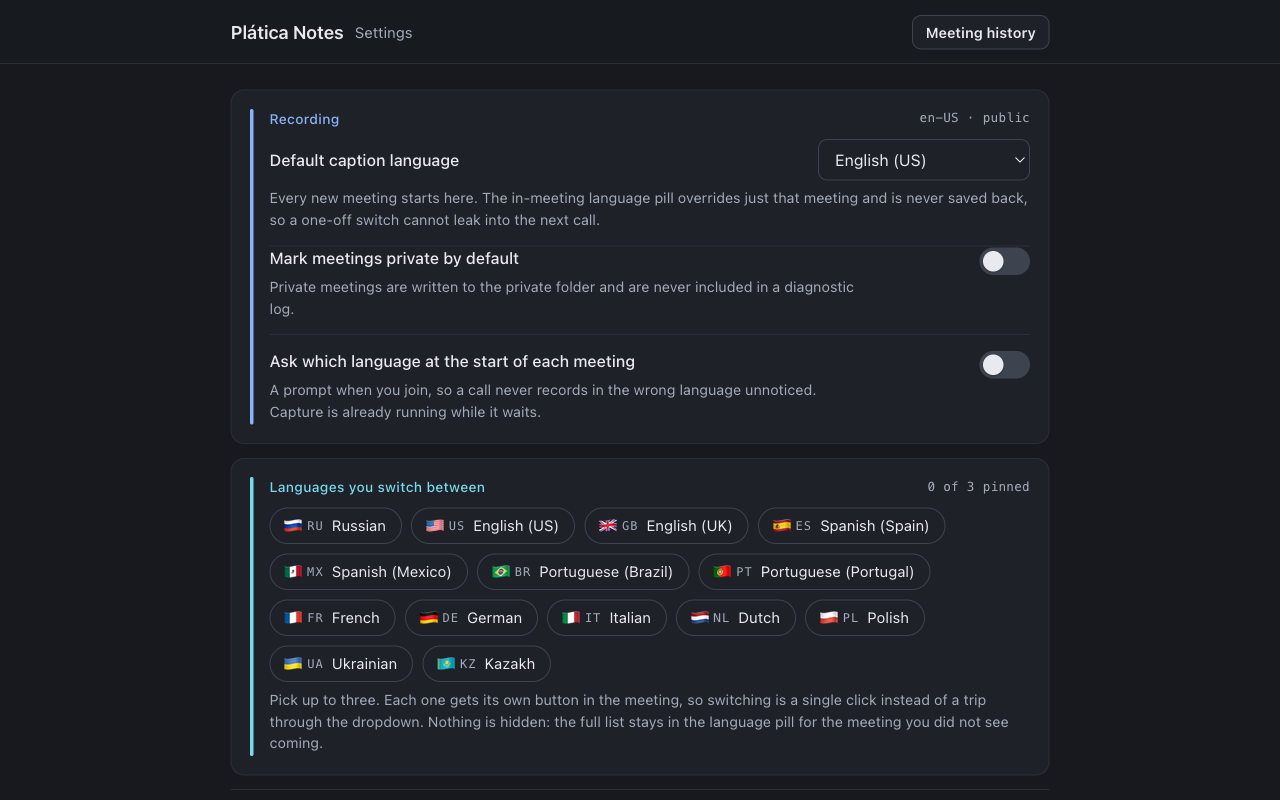
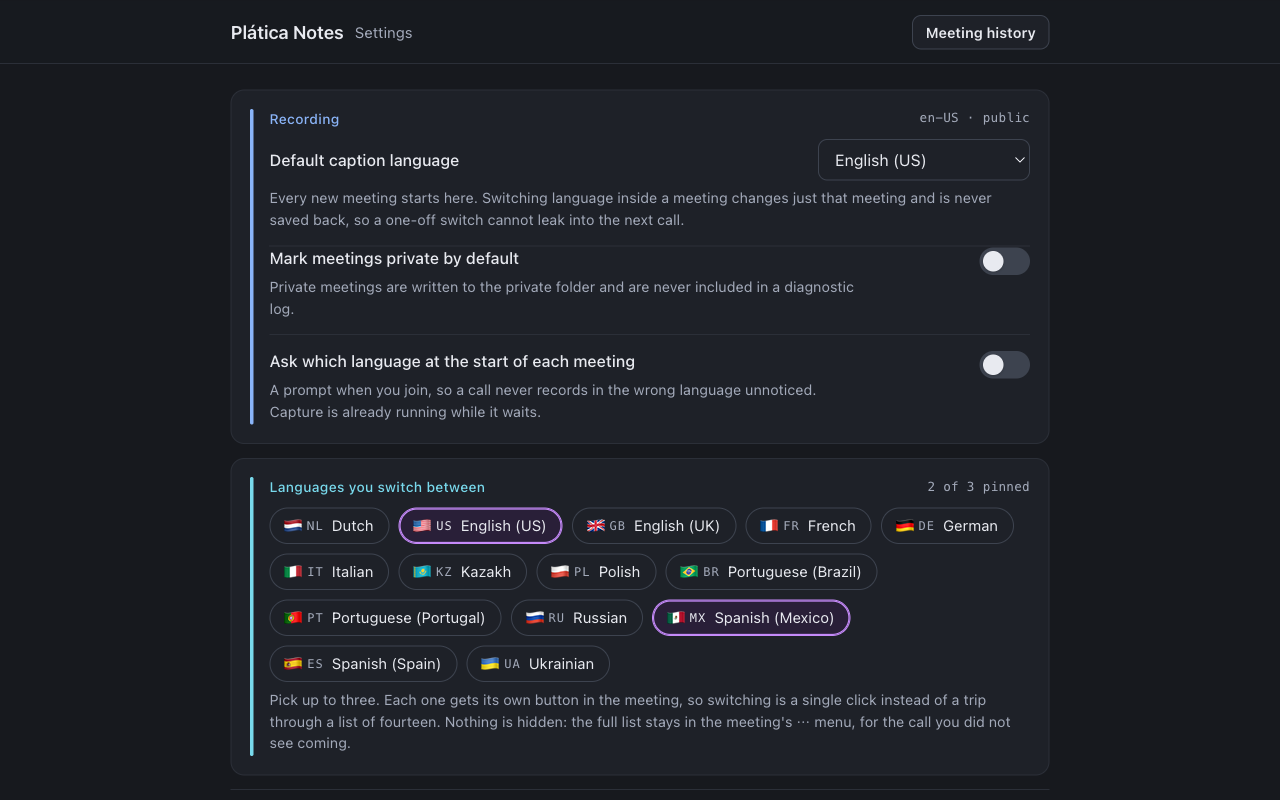
docs: bring the manual, the listing copy and the store shots up to date
The manual still described the control bar the redesign replaced: eight
pills, a language pill, Wipe one click from everything else. It now
describes what ships, group for group as the settings page groups it,
and covers what had no entry at all: pinned languages, the retention
setting, the searchable history with its undo, clickable links in the
panel, and the notice that says speech is not arriving.

The listing copy gains the same three, and the screenshot harness now
pins two languages before it shoots. Without that the flagship shot
showed the language buttons switched off, since they only exist for
languages the user chose, and that shot is also the manual's figure for
them. Two rather than the maximum three: at the cap the remaining chips
correctly go inert, which is right in use and reads as broken in a still.

Store copy is still pasted by hand; the API publishes packages, not
listings.

diff --git a/docs/manual/USER-MANUAL.md b/docs/manual/USER-MANUAL.md
@@ -6,7 +6,7 @@ Plática Notes records your Google Meet transcript and in-meeting chat and saves
 as a Markdown file on your own computer. No servers, no accounts, no network
 requests: the extension has nowhere to send anything, by design.
 
-This manual covers version 1.14.0, the version published on the Chrome Web Store.
+This manual covers version 1.16.0, the version published on the Chrome Web Store.
 
 ---
 
@@ -35,13 +35,14 @@ up: no sign-in, no bot joining your call, no third participant for anyone to see
 ## 2. Quick start
 
 1. Install from the Chrome Web Store and open a Google Meet call.
-2. Check the language pill at the top of the meeting (`🌐 English (US)`). **It must
-   match the language actually being spoken**, otherwise the transcript comes out
-   empty. Set your usual language once in Settings; use the pill to override a
-   single call.
+2. Check the language. A `● Recording` pill appears at the top of the call with a
+   running clock, and beside it a button for each language you pinned (`🇺🇸 US`,
+   `🇲🇽 MX`), the current one lit. **The language must match what is actually being
+   spoken**, otherwise the transcript comes out empty. Set your usual one once in
+   Settings; a pinned button, or the full list under `⋯`, overrides a single call.
 3. Talk. Capture runs from the moment you join; there is nothing to press. Meet's
    own on-screen caption band does not need to be turned on.
-4. Click `📄 Transcript` to watch the transcript build up live, if you want to.
+4. `⋯` then **Show transcript** to watch it build up live, if you want to.
 5. Leave the call. The file is written to
    `Downloads/meetings/platica-notes/<meeting title> <date>.md`.
 
@@ -51,71 +52,100 @@ If a meeting produced nothing (nobody spoke, or you wiped it), no file is writte
 
 ## 3. The controls inside the meeting
 
-A row of pills sits at the top of the meeting window.
+Two controls sit at the top of the meeting window, plus one button per language you
+pinned. Everything else lives a click away behind `⋯`, so what covers somebody's
+face during a call is the state of the recording, not a row of settings.
 
 ![The in-meeting controls and the live transcript panel](panel.png)
 
-| Control | What it does |
+| Always on screen | What it does |
 |---|---|
-| `🌐 English (US)` | Caption language **for this meeting only**. Changing it here does not change your default, and the next meeting starts from your Settings value again. |
-| `📄 Transcript` | Shows and hides the live transcript panel. |
-| `● Rec` / `⏸ Rec off` | Pauses and resumes capture. Red means recording. |
-| `🗑 Wipe` | Erases everything captured in this meeting so far. |
-| `🔒 Private` / `☁ Normal` | Marks this meeting private, so its file goes to the private folder. |
+| `● Recording 00:12:35` | Capture is running, and for how long. Click to pause, click again to resume. Paused, it goes grey and reads `Paused`. It also carries a `🔒` while the meeting is marked private, so that state is visible without opening anything. |
+| `🇺🇸 US` `🇲🇽 MX` | One button per language you pinned in Settings, up to three, the current one lit. A click switches the recording language **for this meeting only**. |
+| `⋯` | Everything else. |
+
+| Behind `⋯` | What it does |
+|---|---|
+| `🌐 English (US)` | The full language list, for the meeting you did not see coming. |
+| `📄 Show transcript` / `Hide transcript` | The live transcript panel (section 4). |
+| `🔒 Mark private` `off` | Writes this meeting to the private folder instead. |
+| `🗑 Wipe what was captured` | Throws away everything captured so far. Asks first. |
+| `⌥⇧B` `⌥⇧H` | The two keyboard shortcuts, named where the question comes up. |
+
+The menu opens with the mouse or with the arrow keys, walks its rows with them, and
+closes with Escape, which puts the focus back where it was. Choosing something
+closes it.
 
 ### Language
 
 The single most common cause of an empty transcript is a language mismatch. Google
-generates captions for one language at a time, and if the pill says English while the
-call is in Russian, there is simply nothing to capture. Switching the pill
+generates captions for one language at a time, and if the extension is listening in
+English while the call is in Spanish, there is simply nothing to capture. Switching
 mid-sentence is fine: capture re-subscribes to the new language and keeps going.
 
-If you regularly move between languages, turn on **Ask language at meeting start** in
-Settings. Each meeting then opens with a small prompt: keep the current language,
-pick another, or dismiss it. It never blocks recording.
+If you move between the same two or three languages, pin them in Settings. Each one
+gets its own flag button in the call, so switching is a single click rather than a
+trip through a list of fourteen. Nothing is hidden by pinning: the full list stays
+under `⋯`.
+
+If your calls are less predictable than that, turn on **Ask language at meeting
+start** in Settings. Each meeting then opens with a small prompt: keep the current
+language, pick another, or dismiss it. It never blocks recording, and capture is
+already running while it waits.
 
 ### Recording on and off
 
-`● Rec` is on when you join. Click it and everything new stops: transcript, chat,
-join/leave markers, notes. Whatever was already captured is kept and still saved when
-the meeting ends, and the off state survives a page reload, so an accidental refresh
-does not silently start recording you again.
+`● Recording` is on when you join. Click the pill and everything new stops:
+transcript, chat, join/leave markers, notes. Whatever was already captured is kept
+and still saved when the meeting ends, and the off state survives a page reload, so
+an accidental refresh does not silently start recording you again.
 
 Use it for the part of the call that should not exist in writing.
 
-![Capture paused, and Wipe armed and waiting for confirmation](recording.png)
+The clock on the pill is there to be glanced at. A clock that has stopped moving
+tells you something is wrong sooner than any warning could.
+
+![Capture paused, and Wipe waiting for confirmation](recording.png)
 
 ### Wipe
 
-`🗑 Wipe` throws away everything captured in the current meeting so far. Click once
-to arm it (it turns yellow and reads `🗑 Wipe? confirm`), click again to confirm; if
-you do nothing it disarms itself. If nothing is left afterwards, leaving the meeting
-writes no file at all.
+**Wipe what was captured**, under `⋯`, throws away everything captured in the
+current meeting so far. Click once to arm it (the row turns amber and reads `Click
+again to wipe · cannot be undone`), click again to confirm; if you do nothing it
+disarms itself. If nothing is left afterwards, leaving the meeting writes no file at
+all.
+
+It sits in the menu rather than on the bar deliberately. It is the one control that
+destroys what has been captured, and it has no business one stray click away from
+the language buttons.
 
 Wipe is per-meeting and immediate. It does not touch files already saved from earlier
 meetings; delete those from Downloads or from the history page.
 
 ### Private meetings
 
-`🔒 Private` routes this meeting's file to a separate folder
+**Mark private**, under `⋯`, routes this meeting's file to a separate folder
 (`meetings/platica-notes-private` by default) so you can keep it out of whatever you
 sync to the cloud. A private meeting is also excluded from the diagnostic log
-entirely, even when that log is switched on.
+entirely, even when that log is switched on. While it is on, the recording pill
+carries a `🔒`, so the menu does not have to be open for you to know.
 
 If most of your calls are sensitive, set **Private by default** in Settings and use
-the pill for the exceptions.
+the menu for the exceptions.
 
 ### Hiding everything
 
-**Alt+Shift+H** (**⌥⇧H** on macOS) hides every element the extension draws: pills,
-panel, toasts. Recording keeps running. The same toggle lives in the toolbar popup.
-Use it before you share your screen. Press it again to bring the controls back.
+**Alt+Shift+H** (**⌥⇧H** on macOS) hides every element the extension draws: the
+pill, the buttons, the panel, the confirmations. Recording keeps running. The same
+toggle lives in the toolbar popup, and the shortcut is named in the `⋯` menu. Use it
+before you share your screen. Press it again to bring the controls back.
 
 ---
 
 ## 4. The live transcript panel
 
-`📄 Transcript` opens a floating card with the meeting timeline as it fills.
+**Show transcript**, under `⋯`, opens a floating card with the meeting timeline as it
+fills.
 
 - **Speaker turns** appear on the left, each speaker in their own colour.
 - **Chat messages** are aligned to the right, so a written message never looks like
@@ -140,6 +170,10 @@ Things worth knowing:
 - **Bookmarks.** **Alt+Shift+B** (**⌥⇧B**) drops a bookmark with no text: a marked
   moment, for when you have no time to type. It becomes a `### Bookmark` block in the
   file, so an assistant can be told to pay attention to what was said around it.
+- **Links are clickable.** A link somebody pastes into the meeting chat opens in a
+  new tab, never the current one, which would end the call. Only `http` and `https`
+  links become clickable, nothing is prefetched or previewed, and the site you open
+  is not told which meeting you came from.
 
 Closing the panel with `✕` only hides it. Capture is unaffected.
 
@@ -147,66 +181,107 @@ Closing the panel with `✕` only hides it. Capture is unaffected.
 
 ## 5. Settings
 
-Open the toolbar popup and click **⚙ Settings**. The popup itself keeps only the
-in-the-moment control (hide on-screen controls) plus links to the history and this
-page.
+### The toolbar popup first
+
+Click the extension's toolbar icon during a call and it answers the question you
+opened it to ask: whether capture is running and for how long, the meeting's title,
+the language, whether it is marked private, and the exact folder the file will land
+in. Between calls it names the last meeting it saved. It also carries the one control
+worth having in the moment, **Hide the on-screen controls**, and the way through to
+**Meeting history**, **Settings** and **Help**.
+
+Everything configured once rather than mid-call lives in Settings.
 
 ![The settings page](settings.png)
+
+Each group on that page shows its current value on its own heading, so the whole
+configuration can be read without opening a single control, and every change says
+that it saved.
 
 ### Recording
 
 - **Default caption language.** Seeds every new meeting. Fourteen languages are
-  available, including Russian, English (US/UK), Spanish (Spain/Mexico), Portuguese
-  (Brazil/Portugal), French, German, Italian, Dutch, Polish, Ukrainian and Kazakh.
-  Fresh installs default to English (US).
+  available: Dutch, English (US/UK), French, German, Italian, Kazakh, Polish,
+  Portuguese (Brazil/Portugal), Russian, Spanish (Mexico/Spain) and Ukrainian, listed
+  in the same order Google Meet's own caption settings use. Fresh installs default to
+  English (US). An in-meeting switch never writes back
+  here, so a one-off cannot leak into your next call.
 - **Mark meetings private by default.** New meetings start private.
+- **Ask which language at the start of each meeting** (off by default). See
+  section 3.
 
-### Folders
+### Languages you switch between
 
-Three paths, all relative to your browser's Downloads folder. Nested paths such as
-`work/meetings` are allowed.
+Pin up to three, and each one gets its own flag button inside the meeting. This is
+the setting that makes the in-meeting bar worth having, and it is also offered on the
+first-run page. Pinning hides nothing: the full list of fourteen stays under `⋯`.
+
+### Where files go
+
+Three paths, all relative to your browser's Downloads folder, the only place a
+browser extension may write. Nested paths such as `work/meetings` are allowed, and
+files are filed by month inside them. Each field previews the exact path the download
+will use as you type, including when what you typed has to be rewritten, which used
+to surface hours later as a file in an unexpected place.
 
 | Setting | Default | Contents |
 |---|---|---|
-| Public folder | `meetings/platica-notes` | Normal meeting transcripts |
-| Private folder | `meetings/platica-notes-private` | Transcripts of meetings marked private |
-| Debug-log folder | `meetings/platica-notes-logs` | Diagnostic logs, only when the debug log is on |
+| Meetings | `meetings/platica-notes` | Normal meeting transcripts |
+| Private meetings | `meetings/platica-notes-private` | Transcripts of meetings marked private |
+| Diagnostic logs | `meetings/platica-notes-logs` | Diagnostic logs, only when the debug log is on |
 
-If you sync transcripts to the cloud, sync the public folder only. The private folder
-holds the meetings you deliberately kept out, and debug logs embed the full
-transcript.
+If you sync transcripts to the cloud, sync the meetings folder only. The private
+folder holds the meetings you deliberately kept out, and diagnostic logs embed the
+full transcript.
 
-### Advanced
+### What lands in the file
 
-- **Caption alternatives in the saved file** (on by default). Google rewrites its
-  captions as it hears more, and the final version sometimes drops words that an
-  earlier version had. With this on, each turn also carries those earlier versions as
-  `↳ _alt:_` lines, so a word lost from the final caption can still be recovered
-  later, by you or by an assistant. Turn it off for a shorter, cleaner file.
-- **Merge rejoined visits into one file** (on by default). If you drop out and rejoin
+- **Keep the caption alternatives** (on by default). Google rewrites its captions as
+  it hears more, and the final version sometimes drops words that an earlier version
+  had. With this on, each turn also carries those earlier versions as `↳ _alt:_`
+  lines, so a word lost from the final caption can still be recovered later, by you
+  or by an assistant. Turn it off for a shorter, cleaner file.
+- **Merge a rejoin into the same file** (on by default). If you drop out and rejoin
   the same meeting within 40 minutes, both visits end up in one file (with a
   `## Visit 2 · rejoined …` heading) instead of two. A daily recurring call is never
   merged across days, and a private visit is never folded into a public file.
-- **Ask language at meeting start** (off by default). See section 3.
-- **Debug log** (off by default). Writes a `.jsonl` diagnostic file per meeting,
-  containing the full transcript plus decoding details. Only useful when reporting a
-  capture problem. Private meetings are never logged. Turn it off when you are done.
+
+### Meeting history
+
+- **Meetings kept in the extension** (30 by default). How many meetings the history
+  page remembers. Once the list is full the oldest entry drops off, and what you lose
+  is the ability to re-download that meeting from the extension. The `.md` files
+  already in your Downloads folder are never touched.
+
+### Troubleshooting
+
+- **Write a diagnostic log per meeting** (off by default). Writes a `.jsonl` file per
+  meeting beside the transcript, containing everything that was said plus decoding
+  details. Only useful when reporting a capture problem. Private meetings are never
+  logged. Turn it off when you are done.
 
 ---
 
 ## 6. Meeting history
 
-The popup's **Meeting history** button opens a local list of your recent meetings
-(the last 30; older ones fall off as new ones arrive).
+The popup's **Meeting history** button opens a local list of your recent meetings,
+grouped by month, newest first.
 
 ![The meeting history page](history.png)
 
-Each row shows when the meeting started, its title, how many turns were captured, and
-whether it was private. **Download** writes the `.md` again, which is the fix for a
-file you deleted by accident or a download you dismissed. **Delete** removes the
-meeting from this local history; it does not delete a file already in Downloads.
+Each row shows when the meeting started, its title, how many turns were captured, the
+caption language, and a marker if it was private. The filter box at the top matches
+titles as you type, and **Open Downloads folder** takes you to the files themselves.
 
-Everything on this page lives in your browser profile on this machine.
+**Download** writes the `.md` again, which is the fix for a file you deleted by
+accident or a download you dismissed, and it tells you where the file landed.
+**Delete** removes the meeting from this local history; it does not delete a file
+already in Downloads. The row goes immediately and an **Undo** stays available for
+ten seconds, because a transcript that exists nowhere else in the extension deserves
+a way back.
+
+How many meetings the list keeps is a setting (section 5), 30 by default. Everything
+on this page lives in your browser profile on this machine.
 
 ---
 
@@ -261,8 +336,9 @@ particular model or vendor.
   history in your browser profile.
 - **The privacy flag is honoured on every output path**: a meeting marked private
   goes to the private folder and is excluded from the diagnostic log.
-- **You can stop and erase**: `⏸ Rec off` stops capture mid-call, `🗑 Wipe` throws
-  away what has been captured, and a meeting with nothing captured produces no file.
+- **You can stop and erase**: clicking the recording pill stops capture mid-call,
+  **Wipe what was captured** throws away what has been captured, and a meeting with
+  nothing captured produces no file.
 - Uninstalling the extension removes its stored data. Files already in Downloads are
   yours and stay.
 
@@ -275,8 +351,15 @@ participants, depending on where you are. Tell them.
 
 ## 9. When something looks wrong
 
+**A notice says the extension is not recording speech.**
+It appears when a meeting has been running for a while with speech arriving nowhere,
+which is worth knowing while there is still time to fix it rather than afterwards.
+The usual cause is a second meeting-recorder extension in the same tab: only one of
+them can read Meet's captions. It does not appear on a quiet call where nobody has
+spoken yet, and it takes itself back if recording turns out to be fine.
+
 **The file is empty, or there is no file at all.**
-The caption language did not match what was spoken. Check the language pill during
+The caption language did not match what was spoken. Check the language buttons during
 the next call. Also check that somebody actually spoke: a meeting with no captured
 content writes no file by design.
 
@@ -299,11 +382,11 @@ Capture resumes and the meeting stays one file. A paused recording stays paused.
 
 **Two transcripts appeared for one meeting.**
 Either you left and rejoined more than 40 minutes apart (they are separate meetings
-by then), or **Merge rejoined visits** is off, or you have two copies of the extension
+by then), or **Merge a rejoin into the same file** is off, or you have two copies of the extension
 installed: one from the store and one loaded unpacked. Two copies capture
 independently and both write files; remove one.
 
-**Reporting a problem.** Turn on the **Debug log** in Settings, reproduce the
+**Reporting a problem.** Turn on **Write a diagnostic log per meeting** in Settings, reproduce the
 problem, and send the `.jsonl` file from `meetings/platica-notes-logs`. It contains
 the full transcript of that meeting, so use a meeting you do not mind sharing, and
 turn the setting off afterwards. Private meetings are never logged.

diff --git a/docs/STORE-LISTING.md b/docs/STORE-LISTING.md
@@ -29,15 +29,22 @@ works with Google Meet.
   has to be turned on and capture keeps working in background tabs.
 • Speaker-attributed transcript plus in-meeting chat, interleaved chronologically.
 • Inline join and leave markers, so you can see who was in the room when.
-• A floating, scrollable transcript panel inside the meeting window, with notes you
-  can type as the call happens.
+• A floating, scrollable transcript panel inside the meeting window, searchable,
+  with notes you can type as the call happens.
+• Fourteen caption languages. Pin the two or three you actually meet in and each
+  gets its own button in the call, so switching mid-meeting is one click.
+• One recording pill in the meeting, showing that it is recording and for how long.
+  Everything else is a click away in a menu, not a toolbar over somebody's face.
 • Recording on/off without leaving the call: pause capture, then resume where you
   left off. Whatever was captured before the pause is still saved.
 • Wipe what was captured in the current meeting, in two clicks. A meeting left with
   nothing captured writes no file at all.
 • Per-meeting privacy toggle: private meetings save to a separate folder you can
   keep out of cloud sync.
-• Local history of your recent meetings, with re-download and delete.
+• A local, searchable history of your recent meetings, with re-download, and an
+  undo on delete.
+• Works alongside another meeting-recorder extension in the same tab, and tells you
+  if speech is not reaching it.
 • Zero network: nothing is ever uploaded anywhere.
 
 Google Meet is a trademark of Google LLC. Plática Notes is not created by,
@@ -169,14 +176,14 @@ Upload in this order, with these captions:
 
 1. `01-in-meeting-panel.png` — "The live transcript panel: speakers, chat, join and
    leave markers, and your own notes, as the call happens."
-2. `02-recording-controls.png` — "Pause capture or wipe everything recorded so far,
-   without leaving the call."
+2. `02-recording-controls.png` — "Switch language, show the transcript, mark the call
+   private, or wipe what was captured, without leaving the call."
 3. `03-saved-file.png` — "Every meeting is saved as a Markdown file on your own
    computer. No servers, no accounts."
-4. `04-history.png` — "A local history of recent meetings; re-download or delete any
-   of them."
-5. `05-settings.png` — "Caption language, a private-by-default toggle, and the
-   folders your meetings are written to."
+4. `04-history.png` — "A local, searchable history of recent meetings; re-download any
+   of them, or delete one and undo it."
+5. `05-settings.png` — "Caption language, the languages you switch between, a
+   private-by-default toggle, and the folders your meetings are written to."
 
 ## Hosting the privacy policy
 
